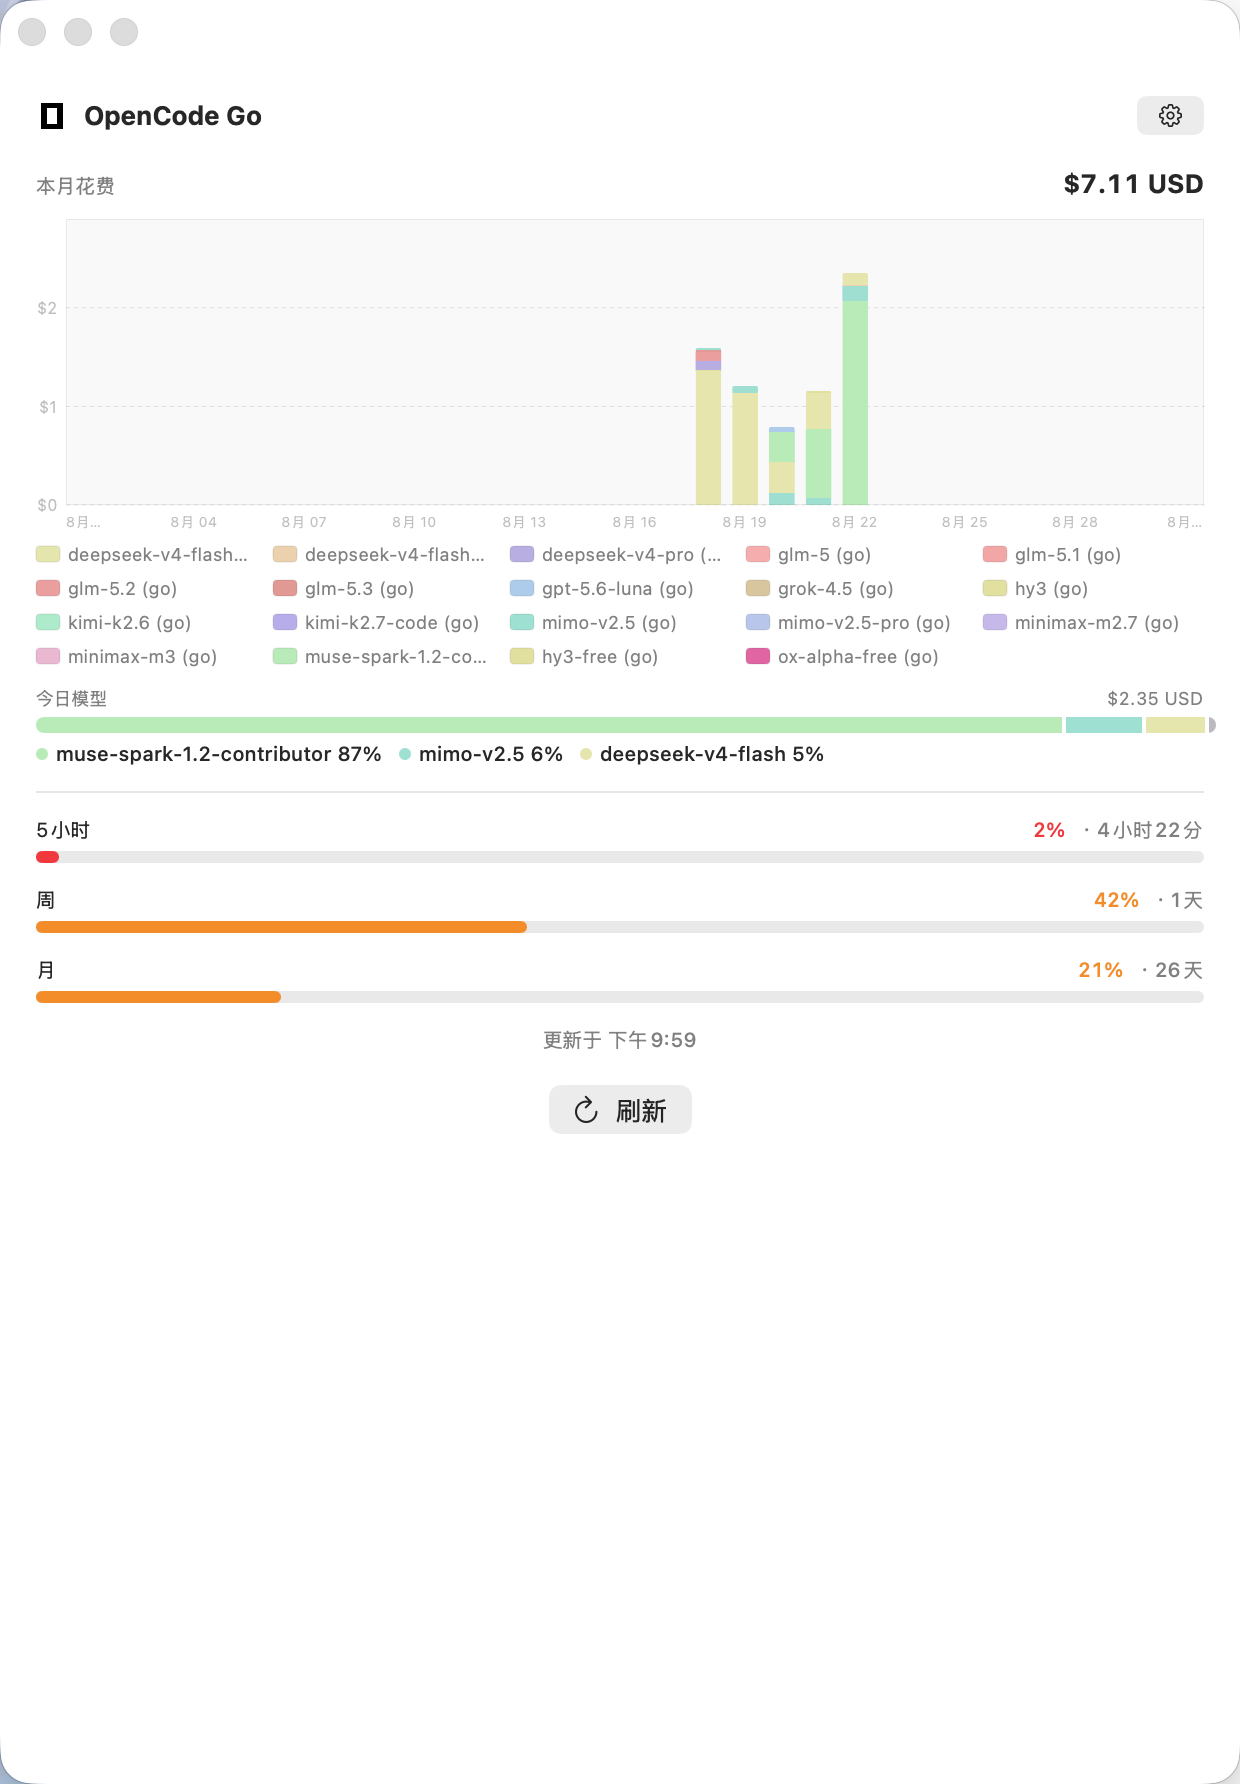
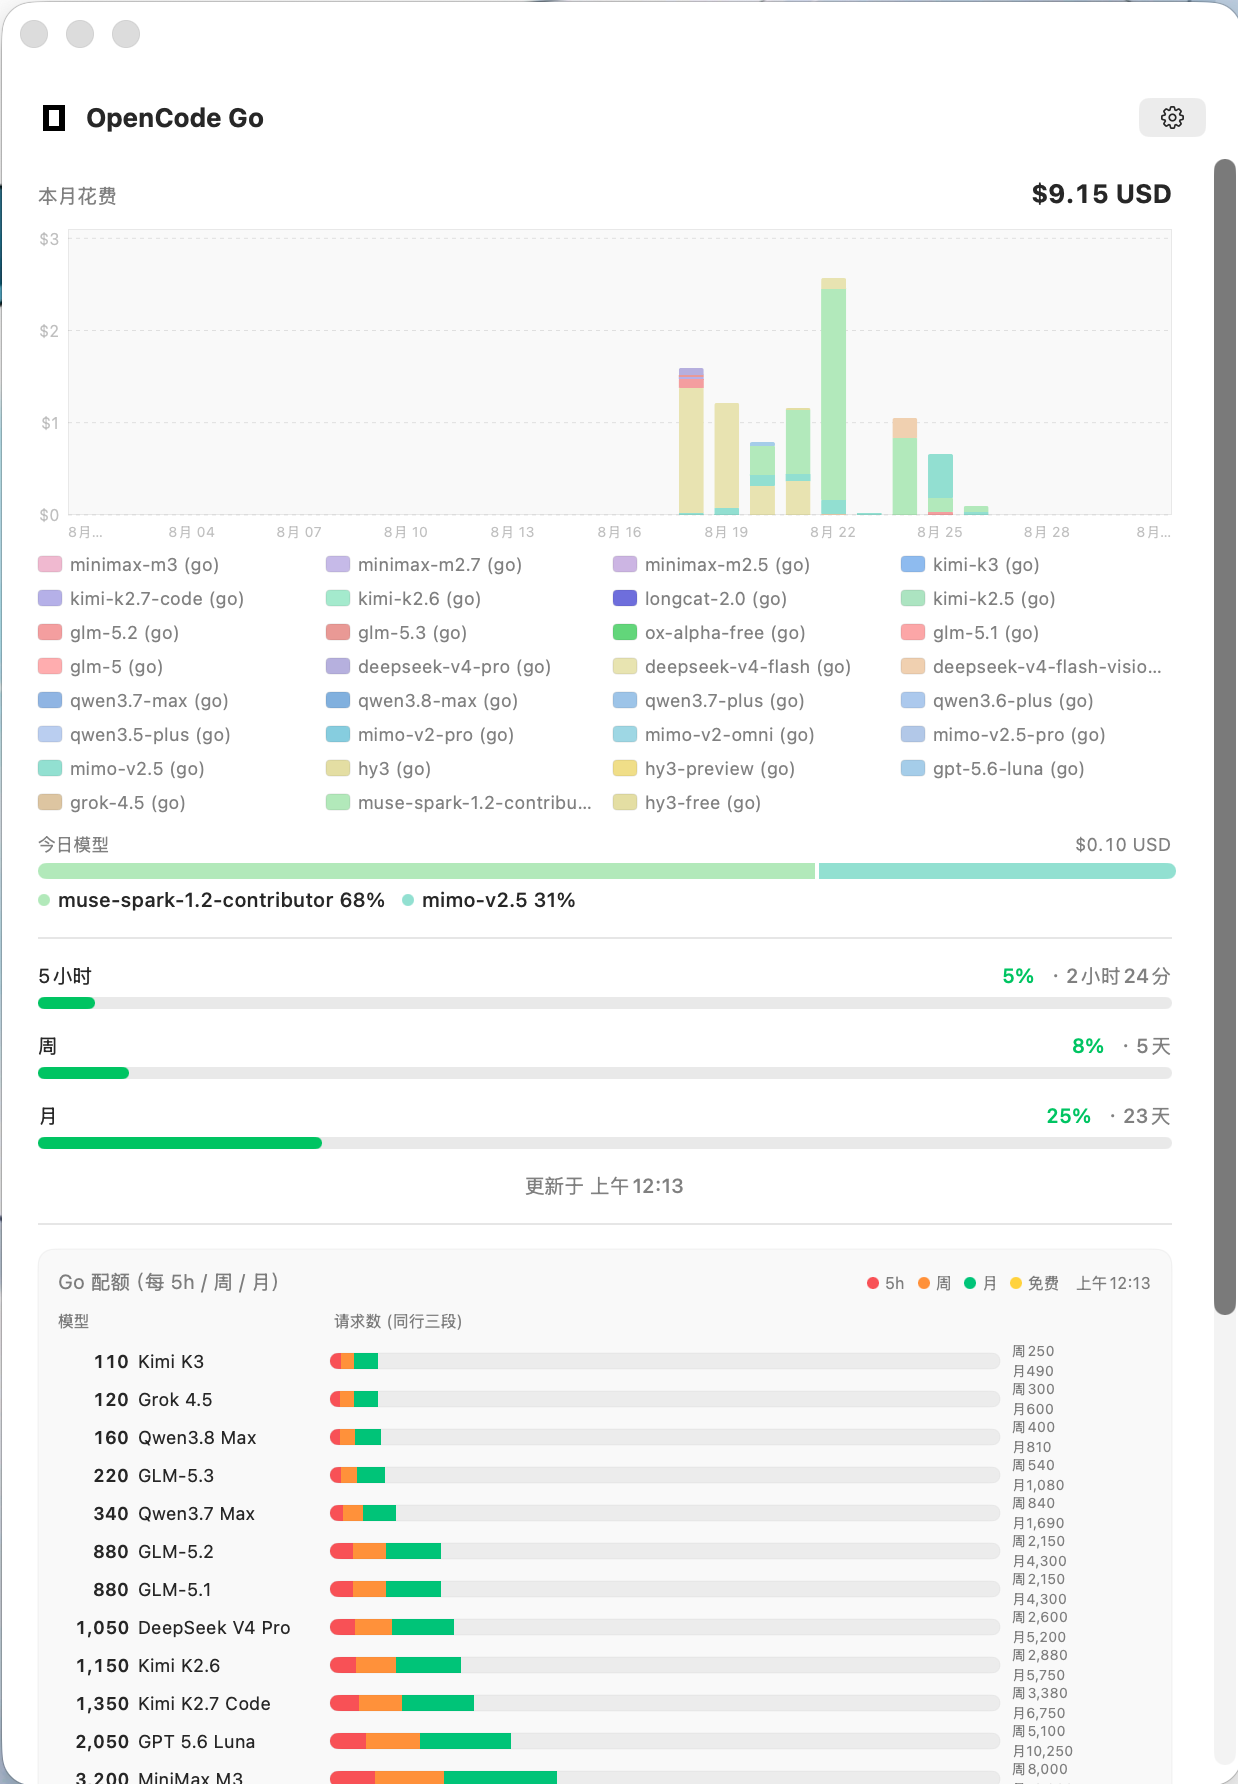
docs: 重写推荐文章并更新四张实机预览图

diff --git a/README.md b/README.md
@@ -1,125 +1,150 @@
 # OpenCode Go 套餐小组件
 
-> macOS 原生小组件 + 仪表盘 · 实时查看 OpenCode Go 额度与按日按模型花费
+> 把 OpenCode Go 的额度、花费和全模型配额表，钉在 macOS 桌面上的原生小组件。
 
 <p align="center">
   <a href="https://github.com/Steve233333/OpenCodeGoWidget/releases/latest">
     <img src="https://img.shields.io/github/v/release/Steve233333/OpenCodeGoWidget?label=最新版本&color=0A84FF" alt="release">
   </a>
   <img src="https://img.shields.io/badge/macOS-14.0+-black" alt="macOS 14+">
-  <img src="https://img.shields.io/badge/Swift-5.9-orange" alt="Swift">
+  <img src="https://img.shields.io/badge/SwiftUI-Charts%20%2B%20WidgetKit-0A84FF" alt="SwiftUI Charts WidgetKit">
   <img src="https://img.shields.io/badge/license-MIT-green" alt="MIT">
   <img src="https://img.shields.io/github/downloads/Steve233333/OpenCodeGoWidget/total?label=下载" alt="downloads">
 </p>
 
 <p align="center">
-  <a href="https://github.com/Steve233333/OpenCodeGoWidget/releases/latest/download/OpenCodeGoWidget-1.0.dmg">
+  <a href="https://github.com/Steve233333/OpenCodeGoWidget/releases/latest/download/OpenCodeGoWidget-1.1.1.dmg">
     <img src="https://img.shields.io/badge/下载-DMG%20安装包-0A84FF?style=for-the-badge&logo=apple&logoColor=white" alt="DMG">
   </a>
   &nbsp;
-  <a href="https://github.com/Steve233333/OpenCodeGoWidget/releases/latest/download/OpenCodeGoWidget-1.0.zip">
+  <a href="https://github.com/Steve233333/OpenCodeGoWidget/releases/latest/download/OpenCodeGoWidget-1.1.1.zip">
     <img src="https://img.shields.io/badge/下载-ZIP%20免安装-34C759?style=for-the-badge&logo=apple&logoColor=white" alt="ZIP">
   </a>
 </p>
 
 <p align="center">
-  <b>一键下载 → 拖入「应用程序」→ 打开即用</b><br/>
-  <sub>支持 Apple Silicon / Intel · 无需 Homebrew · 沙盒安全</sub>
+  <b>下载 → 拖入「应用程序」→ 配 API Key → 添加小组件</b><br/>
+  <sub>Apple Silicon / Intel · 无需 Homebrew · 数据只存本机</sub>
 </p>
 
 ---
 
-## ✨ 这是什么
+## 为什么值得装
 
-**OpenCode Go 套餐小组件** 是为 [opencode.ai](https://opencode.ai) Go 套餐用户做的 macOS 轻量查看器，解决官网只能网页查额度、无法常驻看花费的痛点。
+OpenCode Go 的额度分散在官网多个页面：5 小时、周、月要分别看；模型费用要进 Usage 页翻；每个模型的配额倍率更是藏在文档表里。这个工具把它们压进一块桌面小组件和一个固定尺寸的仪表盘里。
 
-- **桌面小组件**常驻：5 小时 / 周 / 月三档额度进度 + 近 7 天堆叠花费（仅点击柱状图进主 App，点其他区域不跳转）
-- **主 App 仪表盘**固定窗口 `620×860`：本月 `31 天`完整堆叠柱（空日留空不塌陷）、图例按模型分色、今日模型细分、实时刷新
-- **真数据**：通过 workspace 维度拉取 `/_server` 全量 `totalCost`（`1e-8` 美元累加），与官网 Usage 页 `Tooltip` 一致，而非假数据占位
+- **一眼看全局**：5 小时 / 周 / 月三档额度、剩余重置时间、近 7 天花费，小组件里直接看。
+- **费用不再靠猜**：主 App 展示本月按日按模型堆叠柱状图、今日模型占比，数据来自 workspace 真实用量。
+- **全模型配额表**：从官方文档同步 Go 模型配额，用 1x / 10x / 25x / 50x / 100x / 250x 相对刻度展示 5h、周、月三段请求量。
+- **常驻不折腾**：原生 WidgetKit 小组件，点击图表进主 App，支持开机自启。
 
-## 📸 预览
+## 预览
 
-| 主 App（固定窗口） | 设置（HAR 一键导入） | 桌面小组件（中尺寸） |
-|---|---|---|
-| <img src="docs/images/app.png?v=20250822-5" width="320" alt="主 App 本月花费 31 天堆叠"> | <img src="docs/images/settings.png?v=20250822-5" width="320" alt="设置粘贴 API Key 与 workspace"> | <img src="docs/images/widget.png?v=20250822-5" width="320" alt="小组件 5小时周月+近7天"> |
+| 桌面小组件 | 主仪表盘 | 全模型配额图 | 设置与导入 |
+|---|---|---|---|
+| <img src="docs/images/widget.png?v=20260826" width="300" alt="小组件：额度、近 7 天花费"> | <img src="docs/images/app.png?v=20260826" width="300" alt="主 App：本月花费堆叠图"> | <img src="docs/images/quota.png?v=20260826" width="300" alt="Go 全模型配额图"> | <img src="docs/images/settings.png?v=20260826" width="300" alt="设置：API Key 与 HAR 导入"> |
 
-> 图片为 `v1.0` 实机截图：本月 `$7.11 USD`、近 7 天 `$7.11 USD`、今日模型 `muse-spark 87%` 等与线上一致
+截图数据示例：本月 `$9.15 USD`、今日 `$0.10 USD`、5 小时 `5%`、周 `8%`、月 `25%`。
 
-## 🚀 30 秒快速开始
+## 快速开始
 
-### 方式一：DMG（推荐）
-1. 点击顶部 <b>DMG 安装包</b> 绿色按钮下载 `OpenCodeGoWidget-1.0.dmg`
-2. 双击 DMG → 把 `OpenCodeGoWidget.app` 拖入 `Applications`
-3. `open /Applications/OpenCodeGoWidget.app` 首次启动自动注册**开机自启**（可在 `设置` 关闭或 `系统设置 → 通用 → 登录项` 管理）
+### 安装
 
-### 方式二：ZIP 免安装
-1. 下载 `OpenCodeGoWidget-1.0.zip` → 解压得 `OpenCodeGoWidget.app`
-2. 双击运行即可，无需安装
+**DMG 推荐**：下载后打开，把 `OpenCode 小组件.app` 拖入「应用程序」。
 
-### 首次配置（2 分钟）
+**ZIP 免安装**：解压后直接运行。
 
-1. **API Key**：打开 App → 右上 `⚙` → 粘贴 `opencode.ai → Settings → API Keys` 复制的 `sk-...` → 保存
-   - 密钥存于系统 `Keychain` + `App Group`，仅本地使用，更新后小组件自动同步
-2. **柱状图真数据（可选但推荐）**：
-   - 在 `opencode.ai` 打开你的 `workspace/usage` 页 → 浏览器 `导出 HAR` 保存到桌面 → 回到 App 设置点 `选择 HAR 文件` → 自动提取 `wrk_...` 与 `539B auth Cookie` 存入 `App Group`，柱状图即显示 **31 天堆叠真数据**
-   - 也可直接粘贴 `https://opencode.ai/workspace/wrk_.../usage` 全链路或裸 `wrk_...` + `auth`，保存时同自动解析，无需手动复制
-3. **添加到桌面**：`桌面右键 → 编辑小组件 → 搜索 OpenCode Go → 添加中尺寸` → 已自动显示近 7 天图表（点柱状图进主 App，点 `↻` 刷新）
+### 配置
 
-> 未配置 workspace 时，App 与小组件仅显示三档额度与“暂无费用”占位，不报错
+1. 打开应用，点右上角齿轮。
+2. 粘贴 OpenCode Go API Key（`opencode.ai → Settings → API Keys` 里的 `sk-...`）。
+3. 想看真实费用图，就再导入一次 workspace：
+   - 粘贴 `https://opencode.ai/workspace/wrk_.../usage` 全链接；或
+   - 在浏览器导出 HAR 后点「选择 HAR 文件」，应用会自动提取 workspace ID 和认证 Cookie。
+4. 桌面右键 → 编辑小组件 → 搜索「OpenCode Go」→ 添加中尺寸。
 
-## 🔧 功能一览
+API Key 存在 macOS Keychain，workspace 凭据存在 App Group 本地存储，不上传到任何第三方。
 
-- **额度**：`5 小时 / 周 / 月` 百分比 + 剩余重置时间（`· 4小时59分 / · 1天 / · 26天`），低于 `20%` 红、`50%` 橙
-- **花费**：本月总额 `USD`、今日总额 `USD`、今日模型横向堆叠（`Top3 + 其他` 灰）、`17` 模型统一淡色系与图例同色
-- **图表**：App `Charts` 整月连续轴 `xDomain = 01-31` 空日透明占位不塌陷；小组件 `GeometryReader` 近 7 天等宽柱 `42 高 + 11 高日期`
-- **交互**：小组件 **仅柱状图可点** 跳转 `opencodego://month` 单例主窗（`Window id:main + handlesExternalEvents`），刷新按钮 `28pt` 圆命中扩大防误触
-- **窗口**：主 App `windowResizability(.contentSize) 620×860 fixedSize` 固定卡片，`onOpenURL` 激活唯一窗口
+## 核心功能
 
-## 📦 下载直链（免翻 Releases 页）
+### 桌面小组件
 
-- **DMG**: https://github.com/Steve233333/OpenCodeGoWidget/releases/latest/download/OpenCodeGoWidget-1.0.dmg
-- **ZIP**: https://github.com/Steve233333/OpenCodeGoWidget/releases/latest/download/OpenCodeGoWidget-1.0.zip
-- **历史版本**: https://github.com/Steve233333/OpenCodeGoWidget/releases
+- 5 小时 / 周 / 月额度进度和重置倒计时。
+- 近 7 天按日堆叠花费，日期轴清晰。
+- 点击图表进入主 App；点击刷新按钮立即更新。
 
-> 若浏览器提示“未验证开发者”，`右键 → 打开` 首次允许即可（`Codex Patched Signing` 自签名，`--options runtime`）
+### 主仪表盘
 
-## 🛠 本地构建
+- 本月完整月份的按日按模型堆叠柱状图，空日不塌陷。
+- 模型图例统一配色，今日模型占比单独展示。
+- 固定 `620×860` 窗口，信息密度高但不乱。
+
+### Go 配额图
+
+- 实时同步 `opencode.ai` 官方 Go 配额文档。
+- 同一行内展示 5h、周、月三段请求数，右侧给出具体数值。
+- 使用相对倍率刻度，方便比较模型配额量级；限时免费模型单独标注。
+
+### 设置与安全
+
+- API Key 存 Keychain；workspace 凭据存 App Group。
+- HAR 导入自动解析裸 workspace ID 和认证 Cookie，不需要手动复制。
+- 开机自启可开关，也可在系统设置的登录项里管理。
+
+## 下载直链
+
+- DMG：<https://github.com/Steve233333/OpenCodeGoWidget/releases/latest/download/OpenCodeGoWidget-1.1.1.dmg>
+- ZIP：<https://github.com/Steve233333/OpenCodeGoWidget/releases/latest/download/OpenCodeGoWidget-1.1.1.zip>
+- 历史版本：<https://github.com/Steve233333/OpenCodeGoWidget/releases>
+
+首次打开如果提示「未验证开发者」，右键应用选「打开」即可。
+
+## 本地构建
 
 ```bash
 git clone https://github.com/Steve233333/OpenCodeGoWidget.git
 cd OpenCodeGoWidget
 ./build.sh
-# 产物
-# build/OpenCodeGoWidget.app
-# dist/OpenCodeGoWidget-1.0.dmg  dist/OpenCodeGoWidget-1.0.zip
-open /Applications/OpenCodeGoWidget.app
 ```
 
-- 依赖：`Xcode Command Line Tools + swiftc + MacOSX SDK 14.0+`，无需 `SPM / CocoaPods`
-- 签名：优先 `Codex Patched Signing`，缺失则 `ad-hoc`
+构建产物会输出到：
 
-## ❓ 常见问题
+```text
+/Applications/OpenCode 小组件.app
+dist/OpenCode 小组件-1.1.1.dmg
+dist/OpenCode 小组件-1.1.1.zip
+dist/OpenCode 小组件.app
+```
 
-**小组件不出现？** `系统设置 → 桌面与程序坞 → 小组件` 确保已启用；`killall WidgetKit` 后重加
+依赖只需要 Xcode Command Line Tools 和 macOS 14+ SDK。脚本会优先寻找本机可用签名身份，找不到时使用 ad-hoc 签名。
 
-**柱状图一直“暂无”？** 检查设置中 `wrk_...` 为裸 ID（非全 URL）且 `auth` 为 `539B`，重新选一次 HAR 保存
+## 常见问题
 
-**点小组件其他区域也进 App？** 已修复为仅柱状图 `56 高` 矩形可点，其他区域 `contentShape` 已收紧
+**小组件搜不到？**  
+确认系统设置里小组件已启用；运行 `killall WidgetKit` 后重新添加。
 
-**刷新要按很准？** `v1.0` 已扩 `28pt` 圆命中并置顶 `zIndex`，点 `↻` 外沿亦可
+**费用图一直是空？**  
+说明 workspace 数据没配置成功。回到设置重新粘贴 workspace 全链接，或重新选择 HAR 文件保存。
 
-**如何关闭开机启动？** App `设置 → 开机自动启动` 关，或 `系统设置 → 通用 → 登录项 → 移除`
+**API Key 会泄露吗？**  
+不会上传到第三方。Key 只存在本机 Keychain，网络请求只发往 `opencode.ai`。
 
-## 🔐 隐私
+**怎么关闭开机启动？**  
+应用设置里关闭「开机自动启动」，或在系统设置 → 通用 → 登录项里移除。
 
-- 仅本地读取 `zen_api_key`（`Keychain`）与 `workspaceID/authCookie`（`App Group 2DC432GLL2.com.steve233.opencodego`）
-- 网络仅 `GET https://opencode.ai/zen/go/v1/usage` 与 `POST https://opencode.ai/_server`（带 `X-Server-Id` 分层重试），无第三方上报
-- `100_000_000` 除数与 `1e-8` 美元语义已按 `HAR 539B` 实测校准
+**为什么应用叫「OpenCode 小组件」，界面里又叫「OpenCode Go」？**  
+应用包名用于桌面识别，界面和小组件标题保留产品功能名「OpenCode Go」。
 
-## 📄 开源
+## 隐私
 
-MIT License · 欢迎 Issue / PR · `opencode go 套餐小组件` 独立社区项目，与 `OpenCode` 官方无关
+- 本地存储：Keychain、App Group `2DC432GLL2.com.steve233.opencodego`。
+- 网络请求：仅访问 `opencode.ai` 的 usage、models、docs 相关接口。
+- 无遥测、无广告、无第三方统计。
+
+## 许可
+
+MIT License。这是社区项目，与 OpenCode 官方无关。
 
 ---
 
-<p align="center"><sub>Built with SwiftUI + Charts + WidgetKit · 固定窗口 620×860 · 支持 macOS 14.0+</sub></p>
+<p align="center"><sub>SwiftUI · Charts · WidgetKit · macOS 14+</sub></p>
